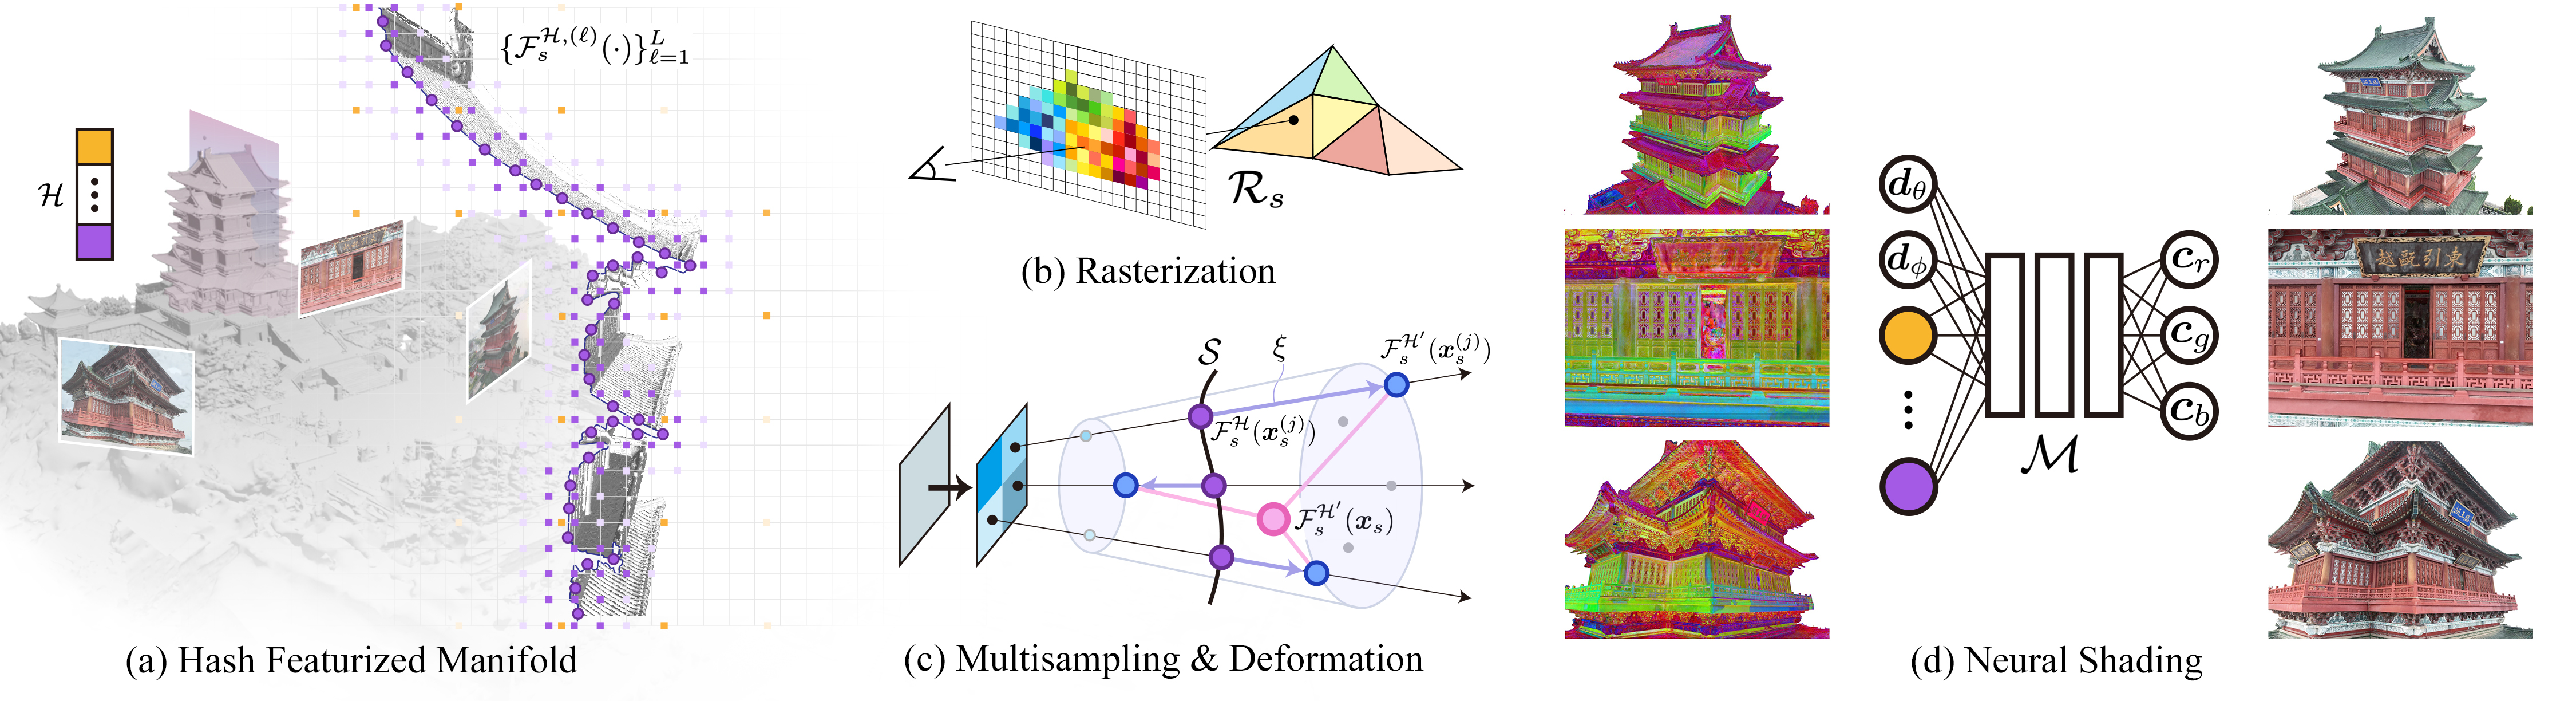
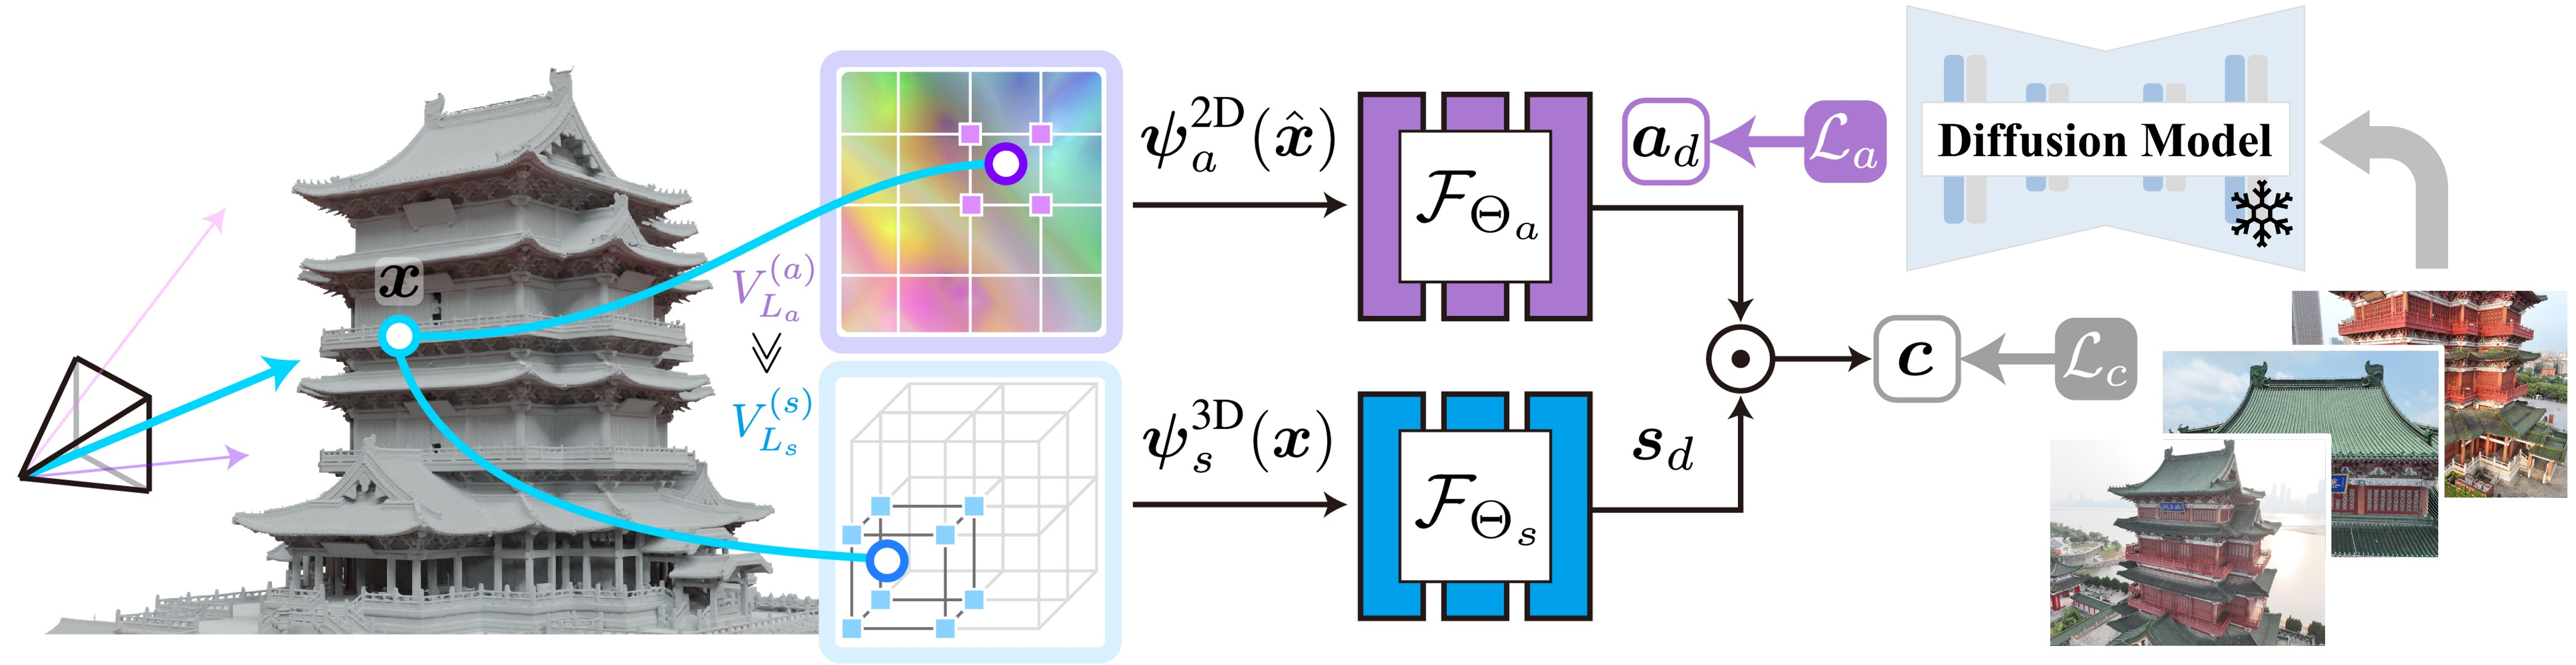
part 4 modified

diff --git a/index.html b/index.html
@@ -831,6 +831,15 @@
                 </div>
             </section>
 
+            <section class="paper-section issues-section reveal">
+                <h2 class="section-heading">Learning fine details by differentiating the spatial frequency of neural fields</h2>
+                <div class="issues-stack">
+                    <article class="issue-block">
+                        <img class="method-image" src="img/pipeline.jpg" alt="Learning fine details by differentiating the spatial frequency of neural fields">
+                    </article>
+                </div>
+            </section>
+
             <section class="paper-section reveal" id="demos">
                 <p class="section-label">Demos</p>
                 <h2 class="section-heading">Move through light, structure, and scale.</h2>